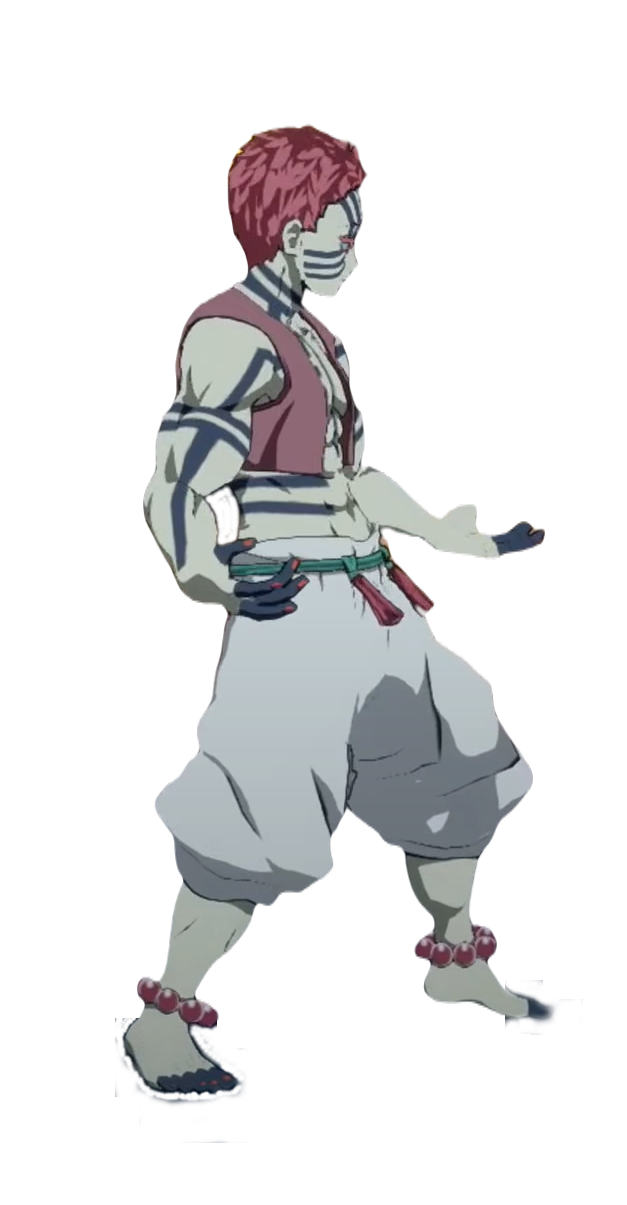
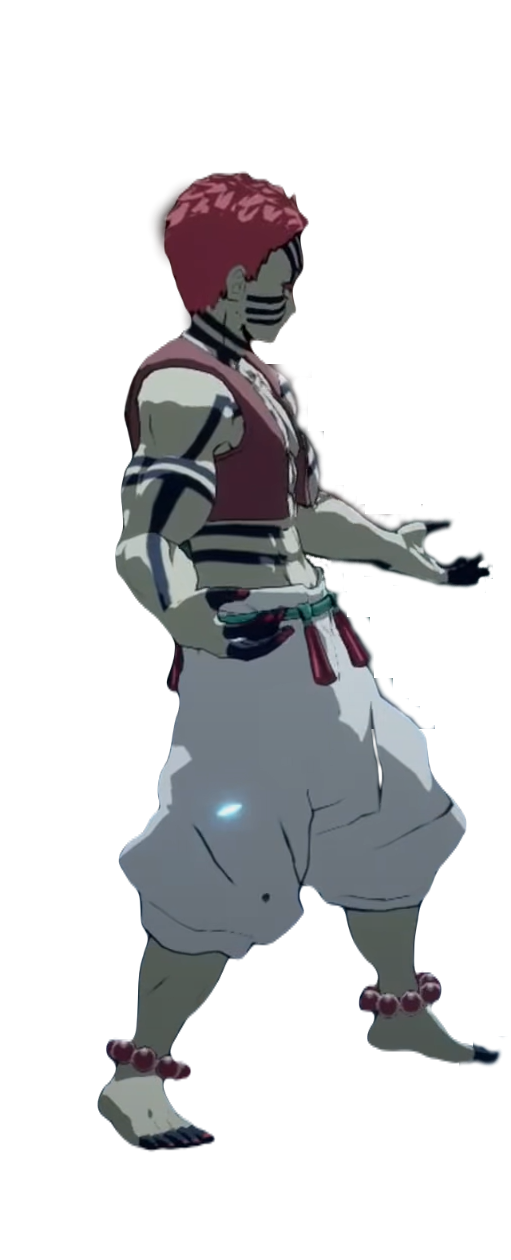
doing spritesheet

Changed region(s): [[0.1761, 0.0921, 0.998, 0.9212]]

diff --git a/fighter.py b/fighter.py
@@ -3,9 +3,10 @@ import pygame
 
 class Fighter():
     def __init__(self, x, y,flip,data,sprite_sheet,animation_steps):
-        self.size=data[0]
-        self.image_scale = data[1]
-        self.offset= data[2]
+        self.size_w=data[0]
+        self.size_h=data[1]
+        # self.image_scale = data[1]
+        # self.offset= data[2]
         self.flip = flip
         self.animation_list=self.load_images(sprite_sheet,animation_steps)
         self.action = 0# 0:idle #1:run #2:jump #3 attck1 #4:attack2 #5:hit # 6:death
@@ -26,8 +27,9 @@ class Fighter():
         for y,animation in enumerate(animation_steps) :
          temp_img_list=[]
          for x in range(animation):
-              temp_img = sprite_sheet.subsurface(x * self.size,y * self.size,self.size,self.size)
-              temp_img_list.append(pygame.transform.scale(temp_img,(self.size*self.image_scale,self.size*self.image_scale)))
+              temp_img = sprite_sheet.subsurface(x*self.size_w,y*self.size_h,self.size_w,self.size_h)
+            #   temp_img_list.append(pygame.transform.scale(temp_img,(self.size_w*self.image_scale,self.size_h*self.image_scale)))
+              temp_img_list.append(temp_img)
          animation_list.append(temp_img_list)
         
         return animation_list

diff --git a/main.py b/main.py
@@ -23,21 +23,23 @@ RED = (255, 0, 0)
 WHITE = (255, 255, 255)
 
 # define fighter variables
-AKAZA_SIZE = 288
-AKAZA_SCALE = 1
-AKAZA_OFFSET=[72,56]
-AKAZA_DATA = [AKAZA_SIZE,AKAZA_SCALE,AKAZA_OFFSET]
+AKAZA_SIZE_W = 413
+AKAZA_SIZE_H = 989
+AKAZA_SCALE = 0.25
+AKAZA_OFFSET=[0,0]
+AKAZA_DATA = [AKAZA_SIZE_W,AKAZA_SIZE_H]
+# AKAZA_DATA = [AKAZA_SIZE_W,AKAZA_SIZE_H,AKAZA_SCALE,AKAZA_OFFSET]
 
 #load background image before the game
 bg_image = pygame.image.load(
-    "assets/images/Background_Kimetsu_No_Yaiba.jpg").convert_alpha() #Once an image has been converted it can be blitted (drawn) onto another surface
+    "assets/images/background.jpg").convert_alpha() #Once an image has been converted it can be blitted (drawn) onto another surface
 
 # load spritesheets
 akaza_sheet = pygame.image.load(
-    "assets/images/Akaza/AKAZA_SHEET.png").convert_alpha()
+    "assets/images/Akaza/stand/AKAZA_STAND.png").convert_alpha()
 
 # define number of steps in each animation
-AKAZA_ANIMATION_STEPS = [10, 8, 1, 7, 7, 3, 7]
+AKAZA_ANIMATION_STEPS = [11]
 
 # function for drawing background
 def draw_bg():
